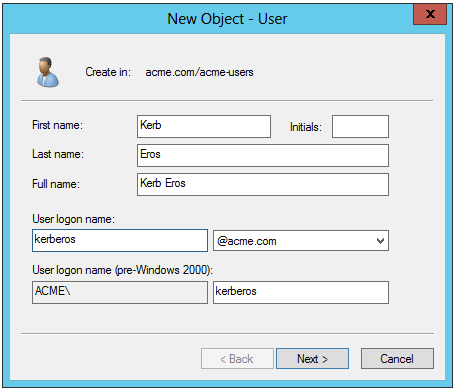
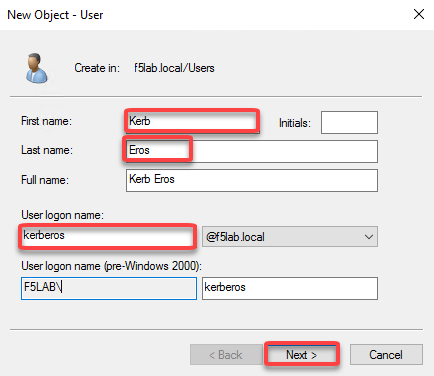
s

diff --git a/lab3.rst b/lab3.rst
@@ -39,13 +39,13 @@ ______________________________________________________________
 
 SAML Resource
 
-#.  Begin by selecting Access > Federation > SAML Resources
+1.  Begin by selecting Access > Federation > SAML Resources
 
 
-#.  Click the Create button (far right)
+1.  Click the Create button (far right)
 
 
-#.  In the New SAML Resource window, enter the following values:
+3.  In the New SAML Resource window, enter the following values:
 
     +--------------------+---------------------------------+
     | Name:              | ``parnter-app``                 |
@@ -61,44 +61,53 @@ SAML Resource
 
 Click Finished at the bottom of the configuration window
 
-Webtop
+**Create Webtop**
 
-#.	Select Access > Webtops > Webtop List
+4.	Select Access > Webtops > Webtop List
 
-#.	Click Create button (far right)
+5.	Click Create button (far right)
 
-#.	In the resulting window, enter the following values
+6.	In the resulting window, enter the following values
 
-	Name	full_webtop
-	Type	Full (drop down)
+  +--------------------+---------------------------------+
+  | Name:              | ``full_webtop``                 |
+  +--------------------+---------------------------------+
+  | Type:              | ``Full`` (drop down)            |
+  +--------------------+---------------------------------+
 
-
+7. Click finished at the bottom of the GUI
 
 .. image:: media/Lab3/image002.jpg
    :width: 4.06in
    :height: 3.08in
 
 
-
-Click finished at the bottom of the GUI
-
-
 TASK 2 – Configure an Active Directory account, Kerberos AAA Object, and keytab file
 ~~~~~~~~~~~~~~~~~~~~~~~~~~~~~~~~~~~~~~~~~~~~~~~~~~~~~~~~~~~~~~~
 ______________________________________________________________
 
-#. From the Jumphost click **Windows Menu -> Administrative Tools -> Active Directory Users and Computers**
+1. From the Jumphost click **Windows Menu -> Administrative Tools -> Active Directory Users and Computers**
 
 .. image:: media/Lab3/image105.png
    :width: 3.31
    :height: 3.55
 
-#. From the File menu click on **Action -> New -> User**
+2. From the File menu click on **Action -> New -> User**
 
-#. Create a new Active Directory User Account with the follow attributes:
+3. Create a new Active Directory User Account with the follow attributes:
+
+  +--------------------+---------------------------------+
+  | First Name:        | ``Kerb``                        |
+  +--------------------+---------------------------------+
+  | Last Name:         | ``Eros``                        |
+  +--------------------+---------------------------------+
+  | User logon Name:   | ``kerberos``                    |
+  +--------------------+---------------------------------+
+  | Password:          | ``password``                    |
+  +--------------------+---------------------------------+
 
 
-#. The Active Directory account should be name "kerbsso".
+4. The Active Directory account should be name "kerberos".
 
 .. image:: media/Lab3/image100.png
    :width: 4.06in
@@ -109,36 +118,33 @@ ______________________________________________________________
    :width: 4.06in
    :height: 3.08in
 
-*Note: The Active Directory Domain is f5lab.local and thus the AD User Account will reflect a user*
-       *account with a User Logon Name of kerberos@f5lab.local versus kerberos@acme.com*
+5. The next step is the run the ktpass command from the Windows command line as follows below
 
-**Click on the delegation tab of the new Active Directory User Account and ensure the following is checked**
+
+        ``ktpass -princ HTTP/kerberos.f5lab.local@f5lab.local -mapuser f5lab\kerberos crypto AES256-SHA1 -ptype KRB5_NT_PRINCIPAL -pass password -out file2.keytab``
+
+6. Click on the delegation tab of the new Active Directory User Account and ensure the **Trust this user for delegation to any service* selected
 
 
 .. image:: media/Lab3/kerbuser_delegation.png
    :width: 4.06in
-   :height: 3.08in 
+   :height: 3.08in
 
+7. Return to the BIG-IP
 
-#. The next step is the run the ktpass command from the Windows command line as follows below
-
-
-     ``ktpass /princ HTTP/kerberos.f5lab@ACME.COM /mapuser f5lab\kerberos /ptype KRB5_NT_PRINCIPAL /pass password /out c:\file.keytab``
-
-
-#. Create the Kerberos AAA object by navigating to **Access -> Authentication -> Kerberos**
+8. Create the Kerberos AAA object by navigating to **Access -> Authentication -> Kerberos**
 
 .. image:: media/Lab3/image106.png
    :width: 5.94in
    :height: 3.33in
 
-+--------------------+---------------------------------+
-| Name:              | ``Kerbos_SSL``                  |
-+--------------------+---------------------------------+
-| Auth Realm:        | ``F5LAB.LOCAL``                 |
-+--------------------+---------------------------------+
-| Service Name:      | ``HTTP``                        |
-+--------------------+---------------------------------+
+   +--------------------+---------------------------------+
+   | Name:              | ``Kerbos_SSL``                  |
+   +--------------------+---------------------------------+
+   | Auth Realm:        | ``F5LAB.LOCAL``                 |
+   +--------------------+---------------------------------+
+   | Service Name:      | ``HTTP``                        |
+   +--------------------+---------------------------------+
 
 #. Click the **Choose File** button and browse to locate the Keytab file (The Keytab file should be located at c:\file.keytab)
 
@@ -198,7 +204,7 @@ ______________________________________________________________
 
 .. image:: media/Lab3/SAML_Auth.png
    :width: 4.06in
-   :height: 3.08in 
+   :height: 3.08in
 
 
 #. Click Save
@@ -210,7 +216,7 @@ ______________________________________________________________
 
 .. image:: media/Lab3/final_access_policy.png
    :width: 4.06in
-   :height: 3.08in 
+   :height: 3.08in
 
 
 #. The final step in this lab is the Access Policy to the app.acme.com Virtual Server
@@ -232,7 +238,7 @@ ______________________________________________________________
 #. Using Internet Explorer on the jump host type in https://app.acme.com
 
 #. Were you prompted for credentials? Were you successfully authenticated?
-   
+
 #. Review your Active Sessions **(Access ‑> Overview ‑> Active Sessions)**
 
 #. Review your Access Report Logs **(Access ‑> Overview ‑> Access Reports)**
